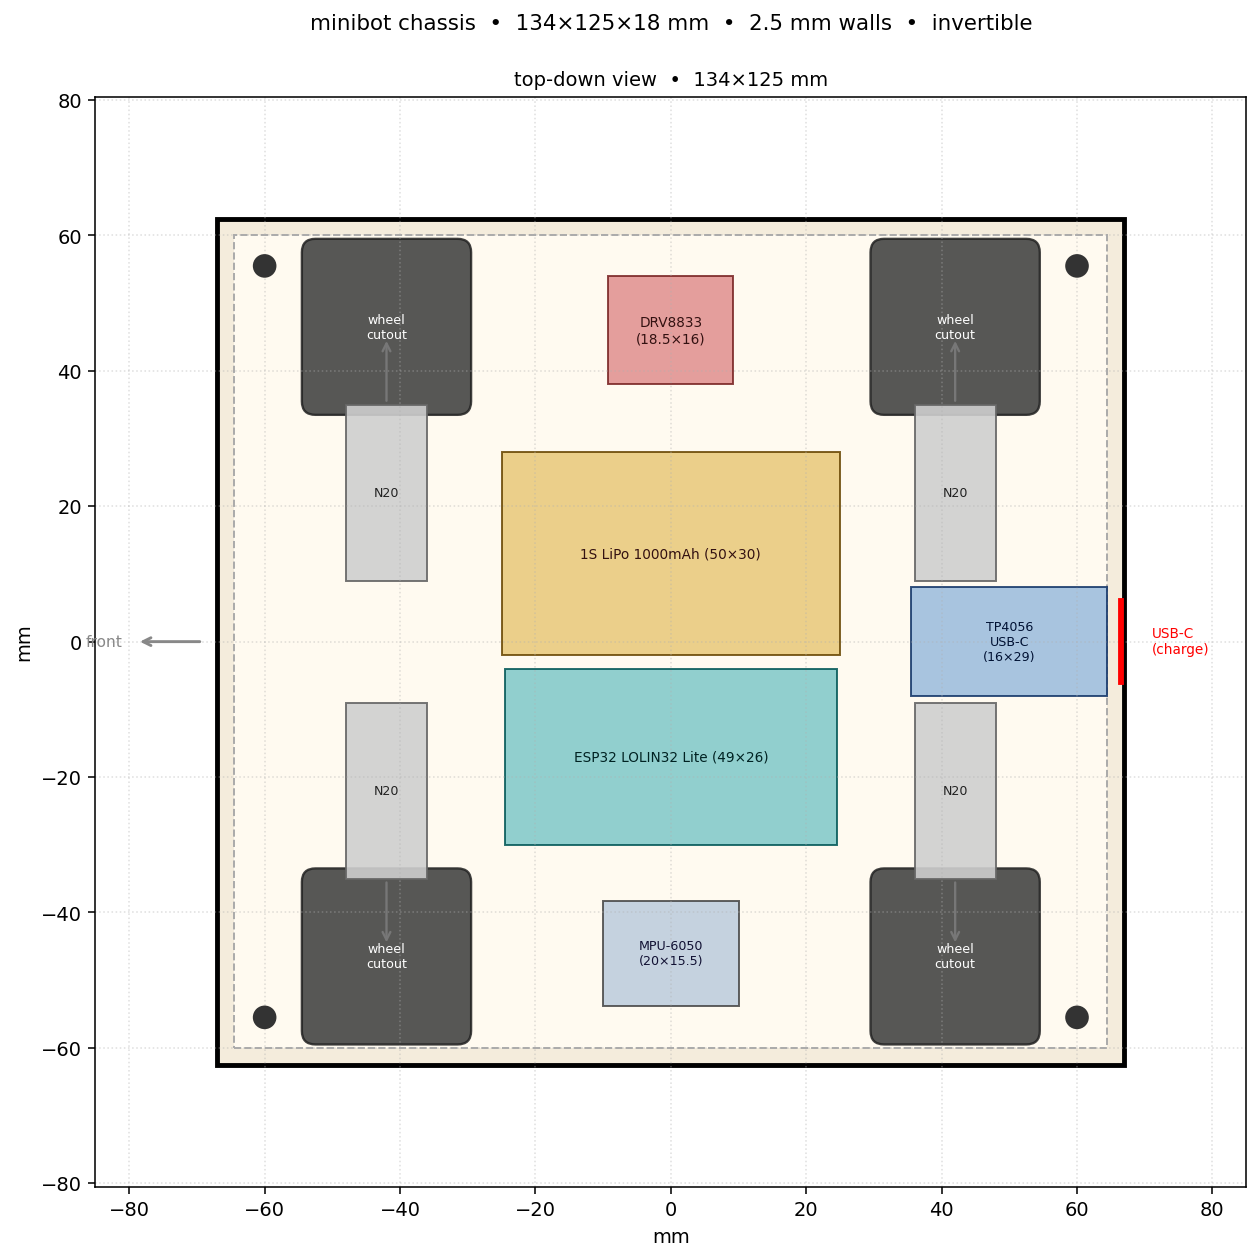
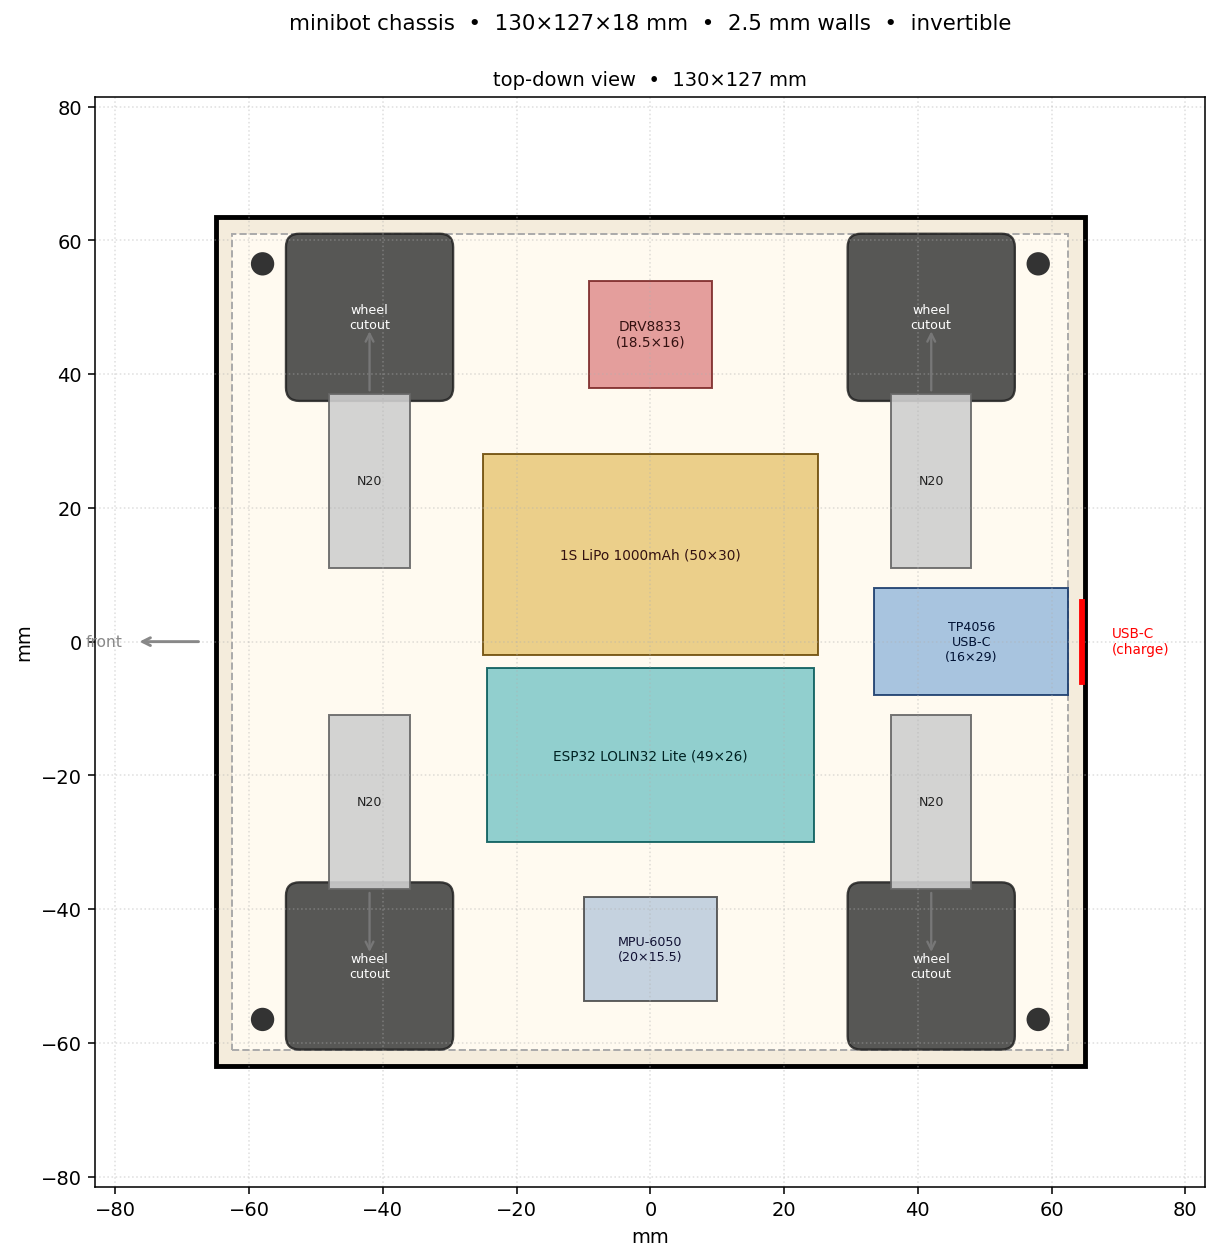
feat(cad): widen to 127mm for 1mm tyre-wall gap (track 48), trim length to 130

diff --git a/docs/cad/layout.py b/docs/cad/layout.py
@@ -13,8 +13,8 @@ import matplotlib.pyplot as plt
 OUT = Path(__file__).resolve().parent
 
 # ─── parameters (kept in sync with chassis.scad) ────────────────────
-plate_length = 134
-plate_width = 125
+plate_length = 130
+plate_width = 127
 plate_thick = 3       # floor thickness (Z)
 wall_thick = 2.5      # perimeter wall thickness (X/Y)
 wall_half_height = 6  # half of the cavity height (so cavity = 12 mm)
@@ -24,7 +24,7 @@ motor_height = 10      # Z dimension (perpendicular to plate)
 motor_diameter = motor_width
 motor_length = 26      # body only, excluding shaft
 motor_axle_pitch = 84
-motor_track = 44
+motor_track = 48
 
 wheel_diameter = 25      # measured outer diameter incl. rubber tire
 wheel_width = 23
@@ -70,7 +70,7 @@ bat_x, bat_y = 0, +13
 esp_x, esp_y = 0, -17
 drv_x, drv_y = 0, +46
 imu_pos_x, imu_pos_y = 0, -46
-tp_x, tp_y = 50, 0
+tp_x, tp_y = 48, 0
 
 
 def draw_top(ax) -> None:
@@ -87,7 +87,7 @@ def draw_top(ax) -> None:
     ))
 
     cutout_x = 24
-    cutout_y = wheel_width + 2
+    cutout_y = wheel_width + 1
     for x, y in wheel_positions:
         ax.add_patch(patches.FancyBboxPatch(
             (x - cutout_x / 2, y - cutout_y / 2),

diff --git a/research.md b/research.md
@@ -282,13 +282,13 @@ The motors mount **shaft-outward** — bodies sit toward the chassis centre, sha
 
 | | |
 |---|---|
-| Plate length | **134 mm** (front-to-back) |
-| Plate width | **125 mm** (side-to-side, 2 mm tyre-to-wall gap) |
+| Plate length | **130 mm** (front-to-back) |
+| Plate width | **127 mm** (side-to-side, 1 mm tyre-to-wall gap) |
 | Plate thickness | 3 mm |
 | Wall thickness | 2.5 mm |
 | Wall height per plate | 6 mm (×2 = 12 mm cavity) |
 | Total chassis height | **18 mm** (3 + 6 + 6 + 3) |
-| Motor track (centres) | **44 mm** |
+| Motor track (centres) | **48 mm** |
 | Motor axle pitch (wheelbase) | 84 mm (wheels near the corners) |
 | Wheel positions | shaft-outward from motors; wheel centres at ±47.5 mm in Y |
 | Wheel cutout per plate | ~30 × 22 mm rounded slot (×4) |

diff --git a/README.md b/README.md
@@ -13,7 +13,7 @@ A small invertible 4WD ESP32 robot driven by a PS3 controller over Bluetooth.
 - **MPU-6050 IMU** for orientation detection — auto-flips drive direction when the bot is upside-down
 - **TP4056 USB-C charge + DW01A protection board** — handles charging, overcharge, overdischarge and short-circuit protection
 - **1S LiPo 3.7 V / 1000 mAh (603048)**, ~1 hour of cruising
-- **3D-printed PETG translucent chassis** — fully enclosed (2.5 mm walls all around), invertible, ~134 × 125 × 18 mm
+- **3D-printed PETG translucent chassis** — fully enclosed (2.5 mm walls all around), invertible, ~130 × 127 × 18 mm
 
 ## System
 
